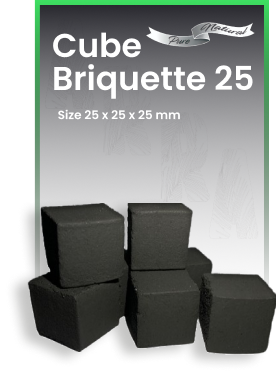
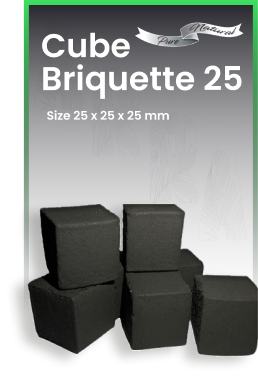
update produk html dan css

Changed region(s): [[0.062, 0.0, 1.0, 0.9629]]

diff --git a/index.html b/index.html
@@ -7,6 +7,9 @@
 
   <title>ARRA</title>
 
+  <link rel="icon" href="img2/icon.ico" type="image/x-icon">
+
+
   <!-- font -->
   <link rel="preconnect" href="https://fonts.googleapis.com" />
   <link rel="preconnect" href="https://fonts.gstatic.com" crossorigin />
@@ -55,8 +58,8 @@
   <!-- Start Hero section -->
   <section class="hero" id="home">
     <main class="content">
-      <h1><span>ARRA</span> <br> 
-      Premium Coconut Charcoal</h1>
+      <h1><span>ARRA</span> <br>
+        Premium Coconut Charcoal</h1>
       <p>
         100% natural raw materials. Does not change the taste, does not give
         off a small.
@@ -163,7 +166,7 @@
     <div class="row">
       <div class="produk-card">
         <div class="produk-img">
-          <img src="img2/product/CUBE 1.png" alt="produk1">
+          <img src="img2/product/CUBE 1.1.png" alt="produk1">
         </div>
         <div class="produk-icon">
           <!-- <a href="#"><i data-feather="shopping-cart"></i></a> -->
@@ -186,7 +189,7 @@
 
       <div class="produk-card">
         <div class="produk-img">
-          <img src="img2/product/CUBE 2.png" alt="produk2">
+          <img src="img2/product/CUBE 1.2.png" alt="produk2">
         </div>
         <div class="produk-icon">
           <a href="#" class="item-detail-button2">Details Product</a>
@@ -195,7 +198,7 @@
 
       <div class="produk-card">
         <div class="produk-img">
-          <img src="img2/product/CUBE 3.png" alt="produk3">
+          <img src="img2/product/CUBE 1.3.png" alt="produk3">
         </div>
         <div class="produk-icon">
           <a href="#" class="item-detail-button3">Details Product</a>
@@ -204,7 +207,7 @@
 
       <div class="produk-card">
         <div class="produk-img">
-          <img src="img2/product/CUBE 4.png" alt="produk4">
+          <img src="img2/product/CUBE 1.4.png" alt="produk4">
         </div>
         <div class="produk-icon">
           <a href="#" class="item-detail-button4">Details Product</a>
@@ -213,7 +216,7 @@
 
       <div class="produk-card">
         <div class="produk-img">
-          <img src="img2/product/CUBE 5.png" alt="produk5">
+          <img src="img2/product/CUBE 1.5.png" alt="produk5">
         </div>
         <div class="produk-icon">
           <a href="#" class="item-detail-button5">Details Product</a>

diff --git a/css/style.css b/css/style.css
@@ -292,6 +292,11 @@ body {
   text-align: center;
   border: 1px solid var(--primary2);
   padding: 2rem;
+ 
+}
+.produk .produk-card .produk-img img{
+width: 80%;
+height: 80%;
 }
 
 .produk .produk-icon {
@@ -311,7 +316,6 @@ body {
   justify-content: center;
   align-items: center;
 }
-.produk .produk
 
 .produk .produk-icon a:hover {
   background-color: var(--primary2);
